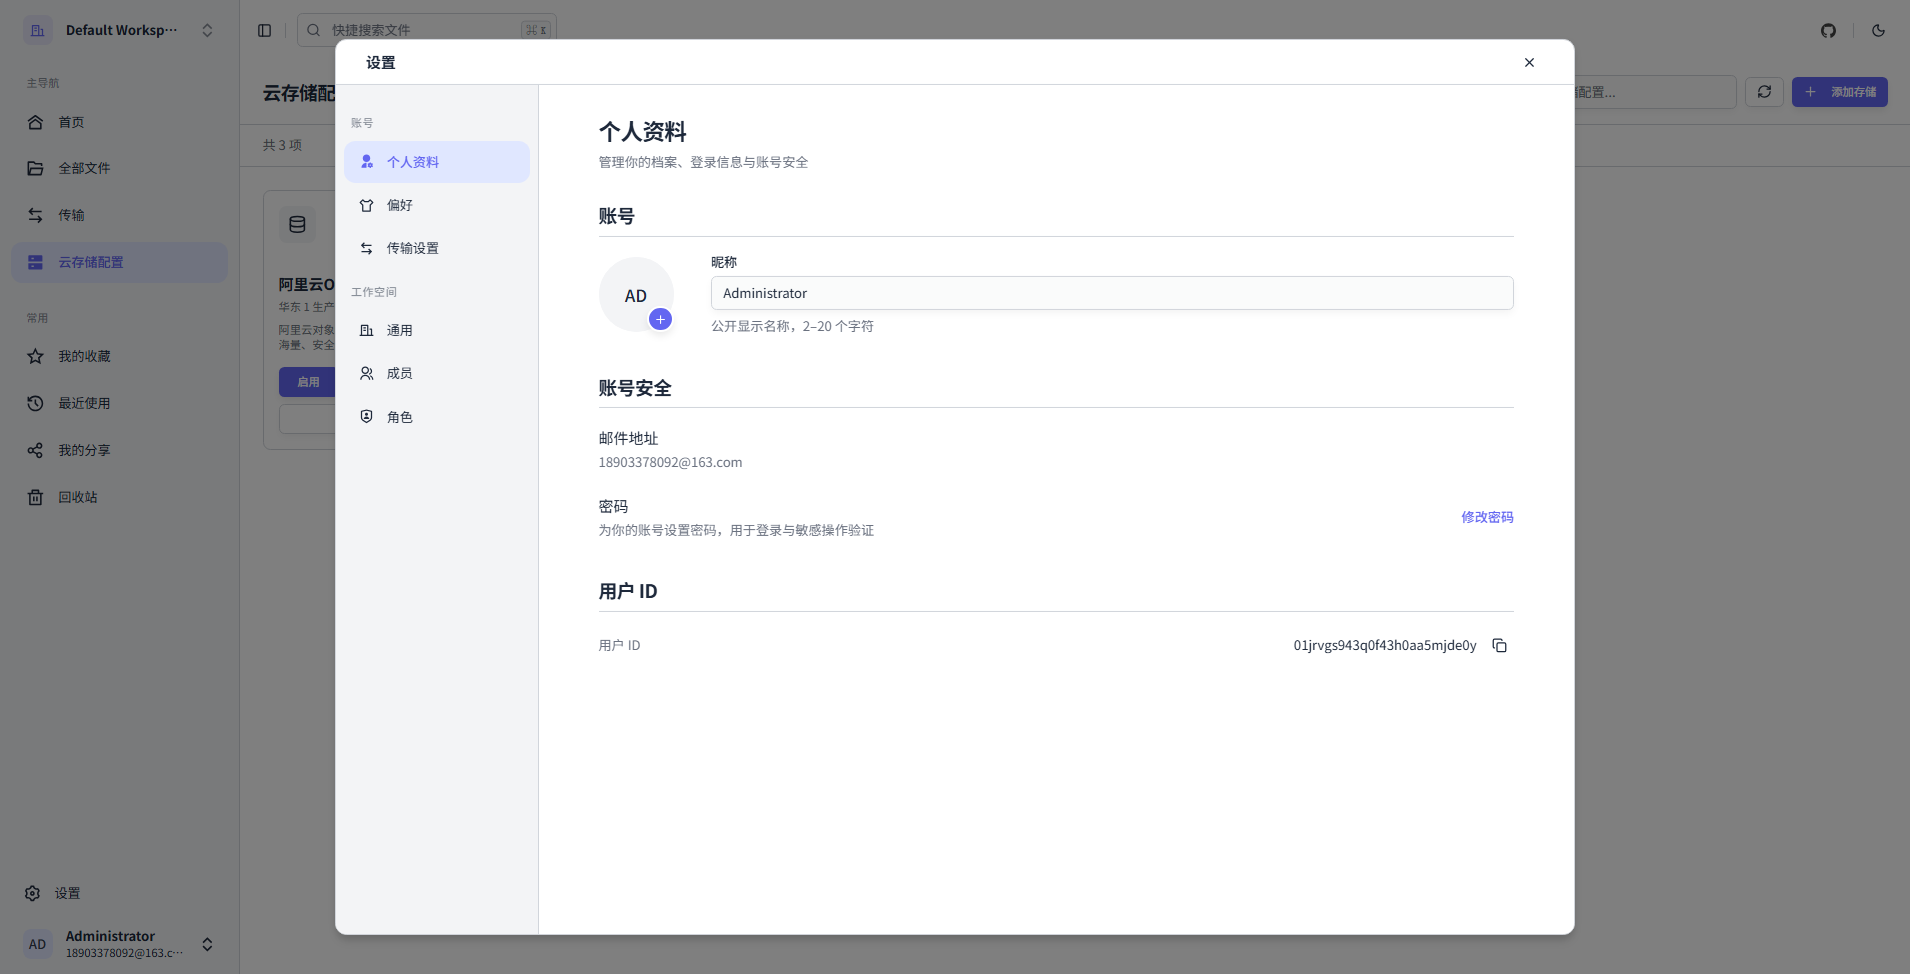
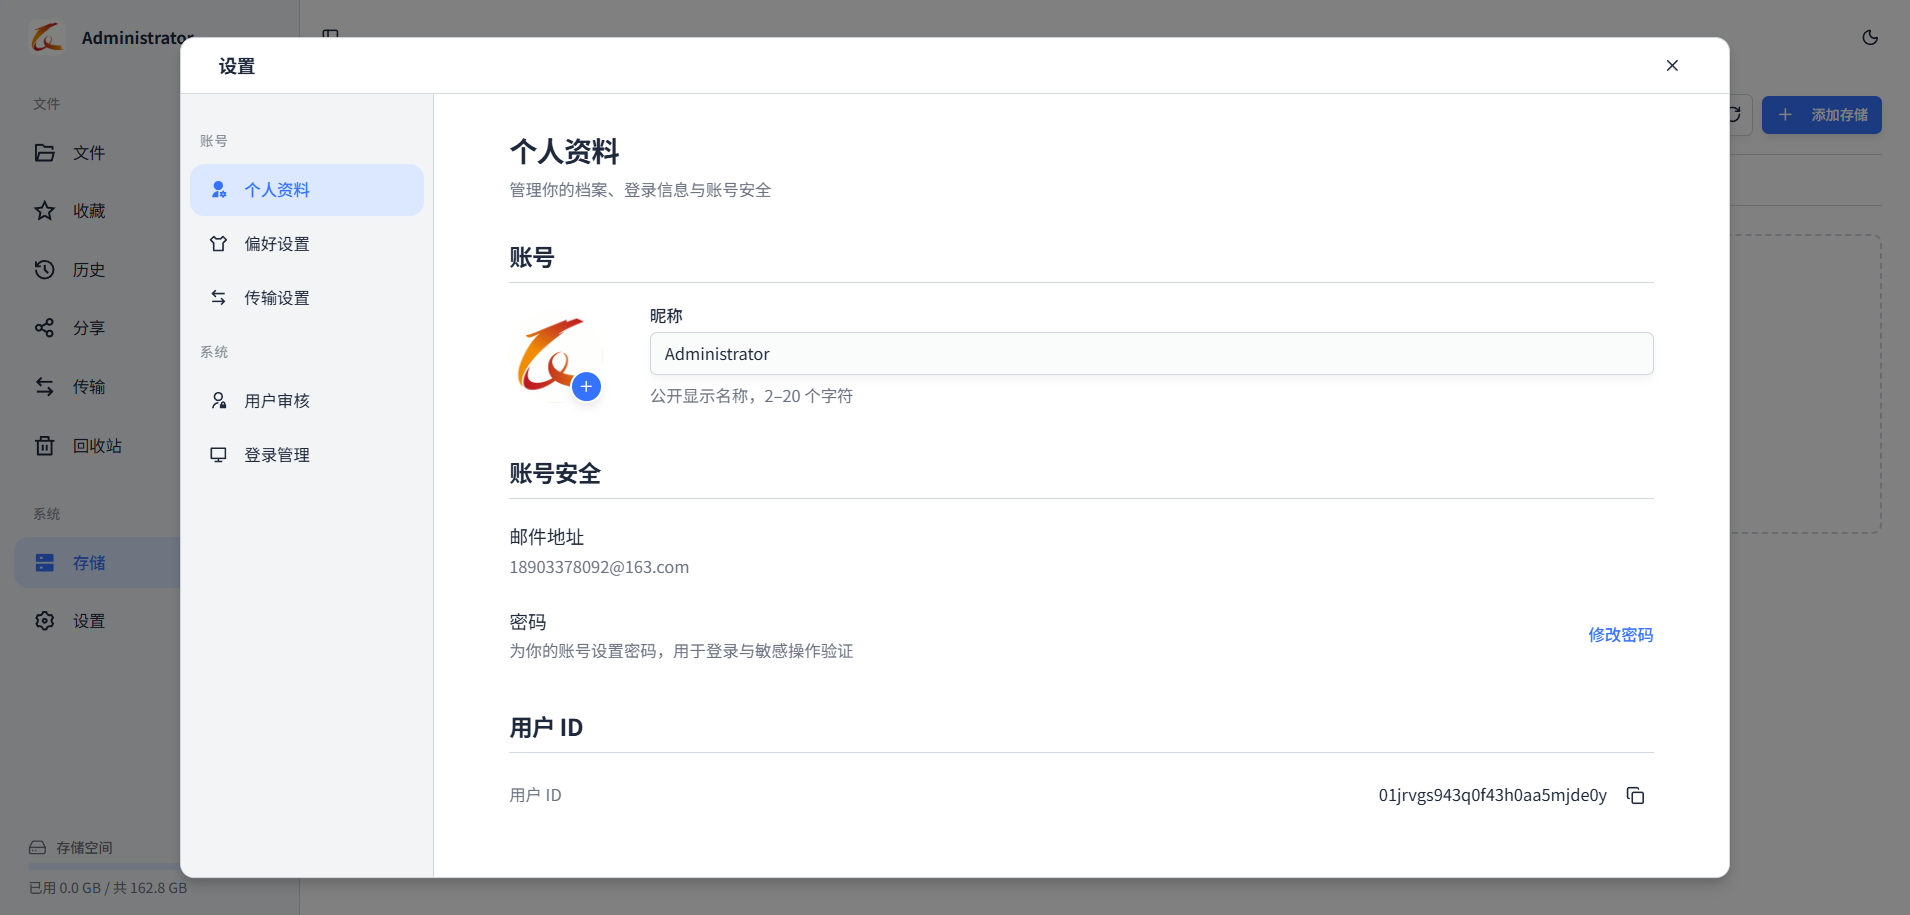
docs(readme): 重截全部界面预览图，移除工作空间相关文案
- 16 张界面预览图全部按 v3.0.0 新界面重截（移除已下线的首页/dashboard 图）
- 特性、项目结构、路线图中删除工作空间、团队协作、RBAC、成员邀请等已移除功能的描述
- 删除失效的邮件配置说明（工作空间邀请邮件随功能一并移除）

diff --git a/README.md b/README.md
@@ -31,7 +31,6 @@
 - **实时上传进度** - 实时推送上传进度，精确到分片级别
 - **秒传功能** - 基于 MD5 双重校验，相同文件秒级完成
 - **插件化存储** - SPI 机制热插拔，5 分钟接入一个新存储平台
-- **工作空间** - 多工作空间支持，团队协作更高效
 - **国际化支持** - 中英文双语支持，轻松扩展更多语言
 - **虚拟线程** - 全面启用 Java 虚拟线程，异步任务、定时任务与预览队列高并发下更稳
 - **模块化架构** - 清晰的分层设计，易于维护和扩展
@@ -50,19 +49,6 @@
     - 文件分享/授权码分享
     - 文件删除
 
-- **工作空间**
-    - 多工作空间管理
-    - 工作空间成员管理
-    - 角色权限控制
-    - 成员邀请（邀请链接，可选邮件通知）
-    - 工作空间切换
-
-- **团队协作**
-    - 成员邀请与管理
-    - 角色权限分配
-    - 工作空间隔离
-    - 成员权限控制
-
 - **国际化**
     - 中文简体
     - 英文
@@ -71,7 +57,6 @@
 - **认证与授权**
     - 用户名密码登录
     - Sa-Token 会话认证（会话存 Redis，重启不掉线、可多实例）
-    - 基于角色的权限控制（RBAC）
     - 新注册用户审核
     - 登录管理（查看在线设备、管理员强制下线）
 
@@ -143,15 +128,6 @@ mvn clean install -DskipTests
 
    修改 `fs-admin/src/main/resources/application-dev.yml` 中的数据库和 Redis 配置
 
-3. **邮件配置（可选）**
-
-   `application.yml` 的 `spring.mail` 已配置为发件邮箱 `18903378092@163.com`（`smtp.163.com:465` SSL）。
-   邮件仅用于工作空间邀请通知，需通过环境变量提供 163 邮箱的 SMTP 授权码；不配置时邀请邮件不发送，邀请链接仍可正常使用：
-
-   ```bash
-   export MAIL_PASSWORD=<163 邮箱 SMTP 授权码>
-   ```
-
 ### 运行
 
 ```bash
@@ -208,7 +184,6 @@ bin\install-service.bat :: 注册开机自启（需管理员）
 | 功能   | 效果图                                                                                                                  | 效果图                                                                                                                     | 效果图                                                                                                                          |
 |------|----------------------------------------------------------------------------------------------------------------------|-------------------------------------------------------------------------------------------------------------------------|------------------------------------------------------------------------------------------------------------------------------|
 | 登录   | <img alt="login.png"  width="600" src=".images/login.png"/>                                                          | <img alt="register.png"  width="600" src=".images/register.png"/>          |                                                                                                                              |
-| 首页   | <img alt="dashboard.png" width="600" src=".images/dashboard.png"/>      |                                                                                                                         |                                                                                                                              |
 | 我的文件 | <img alt="grid_file.png" width="600" src=".images/grid_file.png"/>      | <img alt="file.png" width="600" src=".images/file.png"/>                   |                                                                                                                              |
 | 回收站  | <img alt="recycle.png" width="600" src=".images/recycle.png"/>          | <img alt="recycle_clear.png" width="600" src=".images/recycle_clear.png"/> |                                                                                                                              |
 | 分享文件 | <img alt="share.png" width="600" src=".images/share.png"/>              | <img alt="share_create.png" width="600" src=".images/share_create.png"/>   | <img alt="share_list.png" width="600" src=".images/share_list.png"/>            |
@@ -246,7 +221,7 @@ gfs/
 └── fs-modules/                  # 业务模块
     ├── fs-file/                 # 文件管理模块
     ├── fs-storage/              # 存储平台管理模块
-    ├── fs-system/               # 系统管理模块（用户、工作空间、角色、权限）
+    ├── fs-system/               # 系统管理模块（用户、注册审核、登录管理）
     └── fs-log/                  # 日志模块
 fs-ui/                           # Web 前端（React 19 + Vite）
 doc/                             # 设计文档（登录认证等）
@@ -259,10 +234,7 @@ sql/                             # 数据库初始化脚本
 
 ## 路线图
 
-- 工作空间配额管理与统计报表
-- 工作空间模板、工作空间转让
 - 更细粒度的权限控制、审计日志
-- 批量邀请、邀请链接短链
 
 欢迎在 [Issues](https://github.com/guangheUlti/gfs/issues) 中提出你的想法。
 
